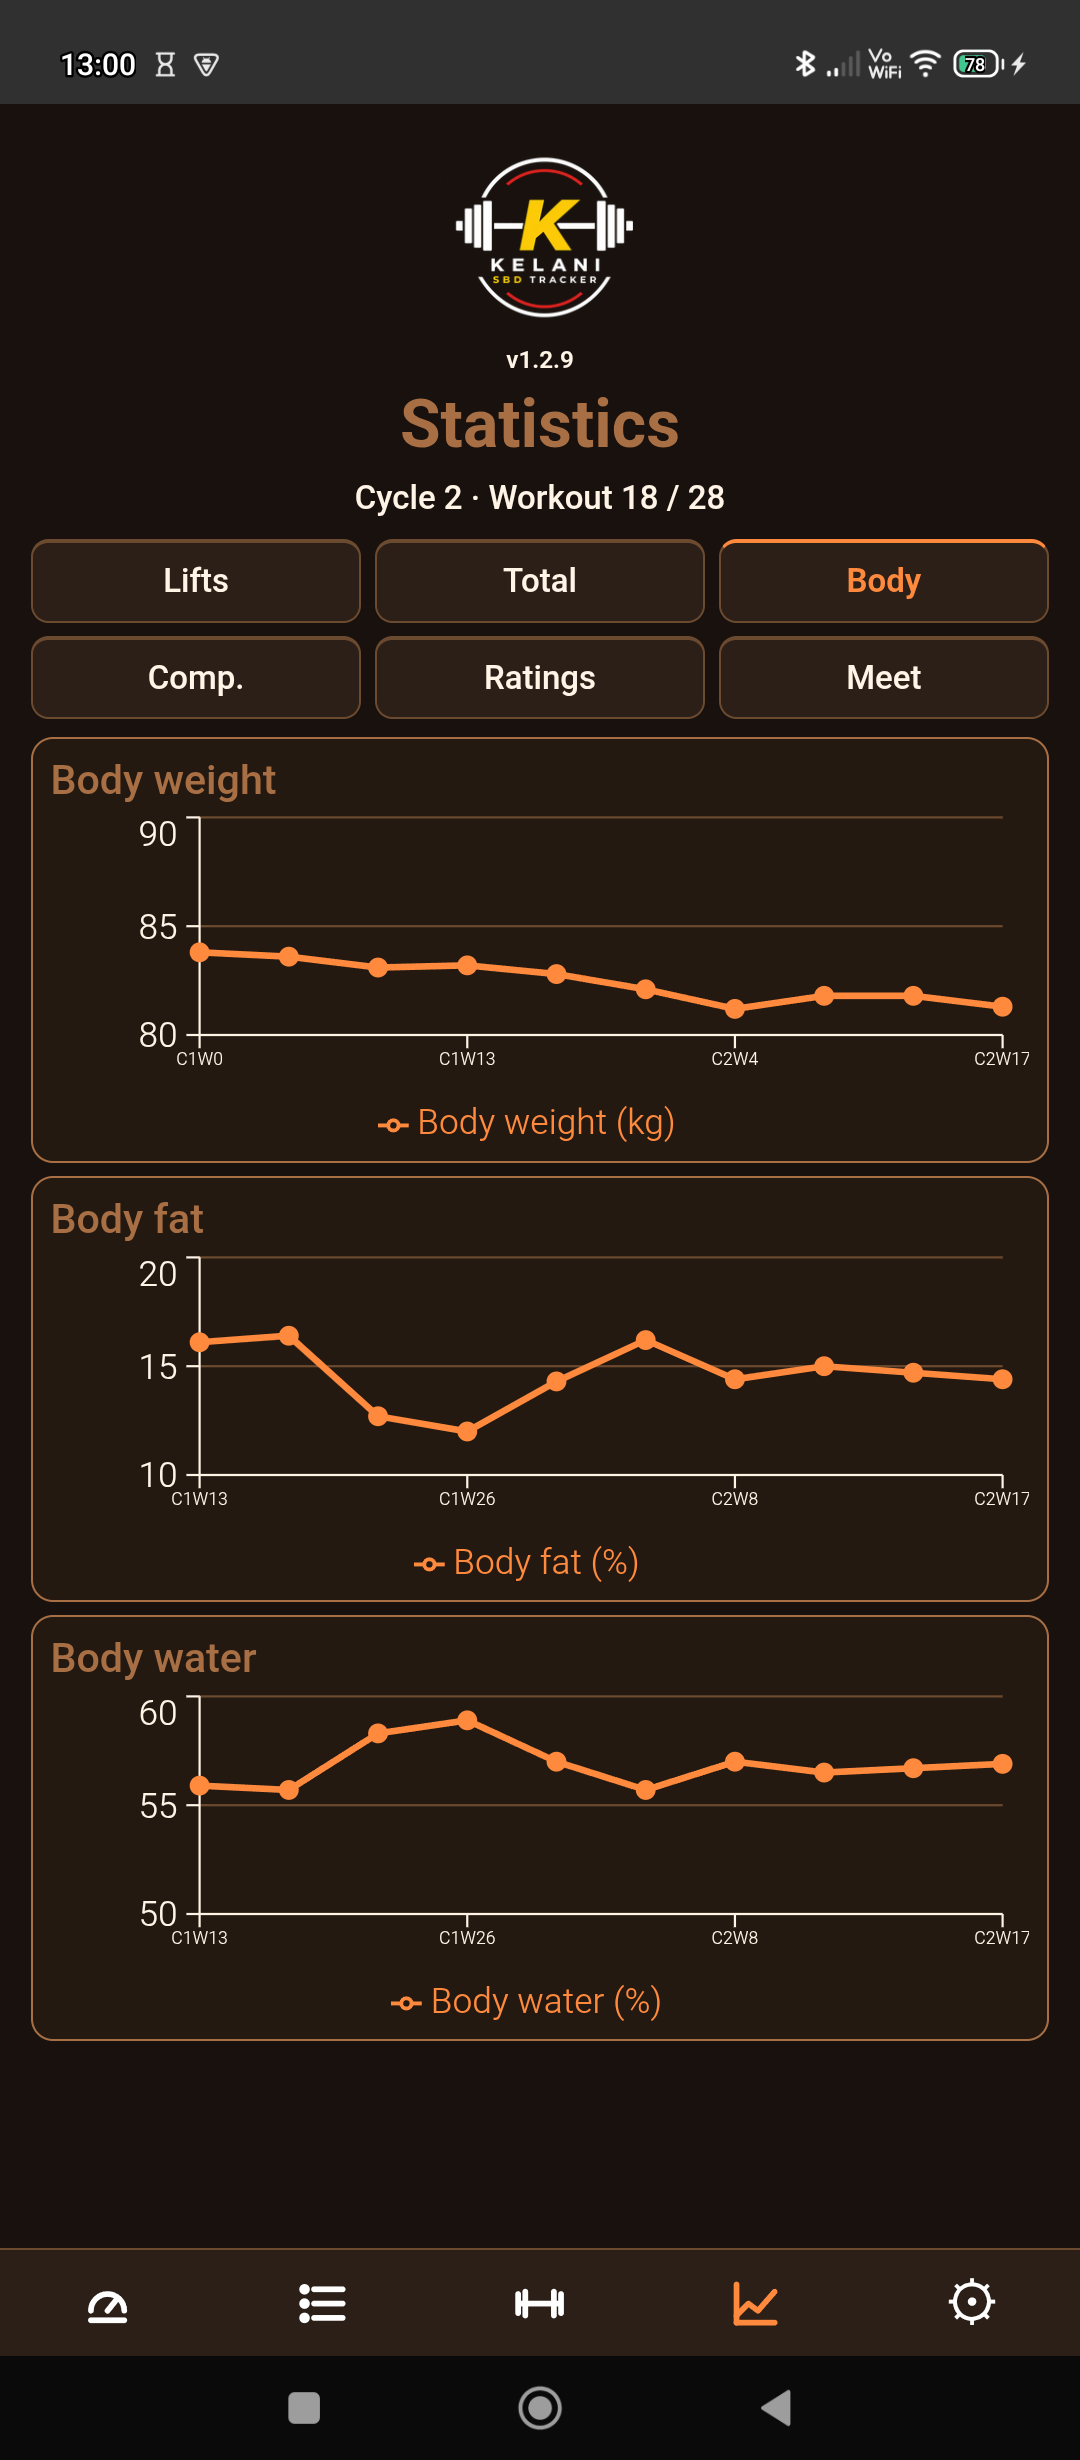
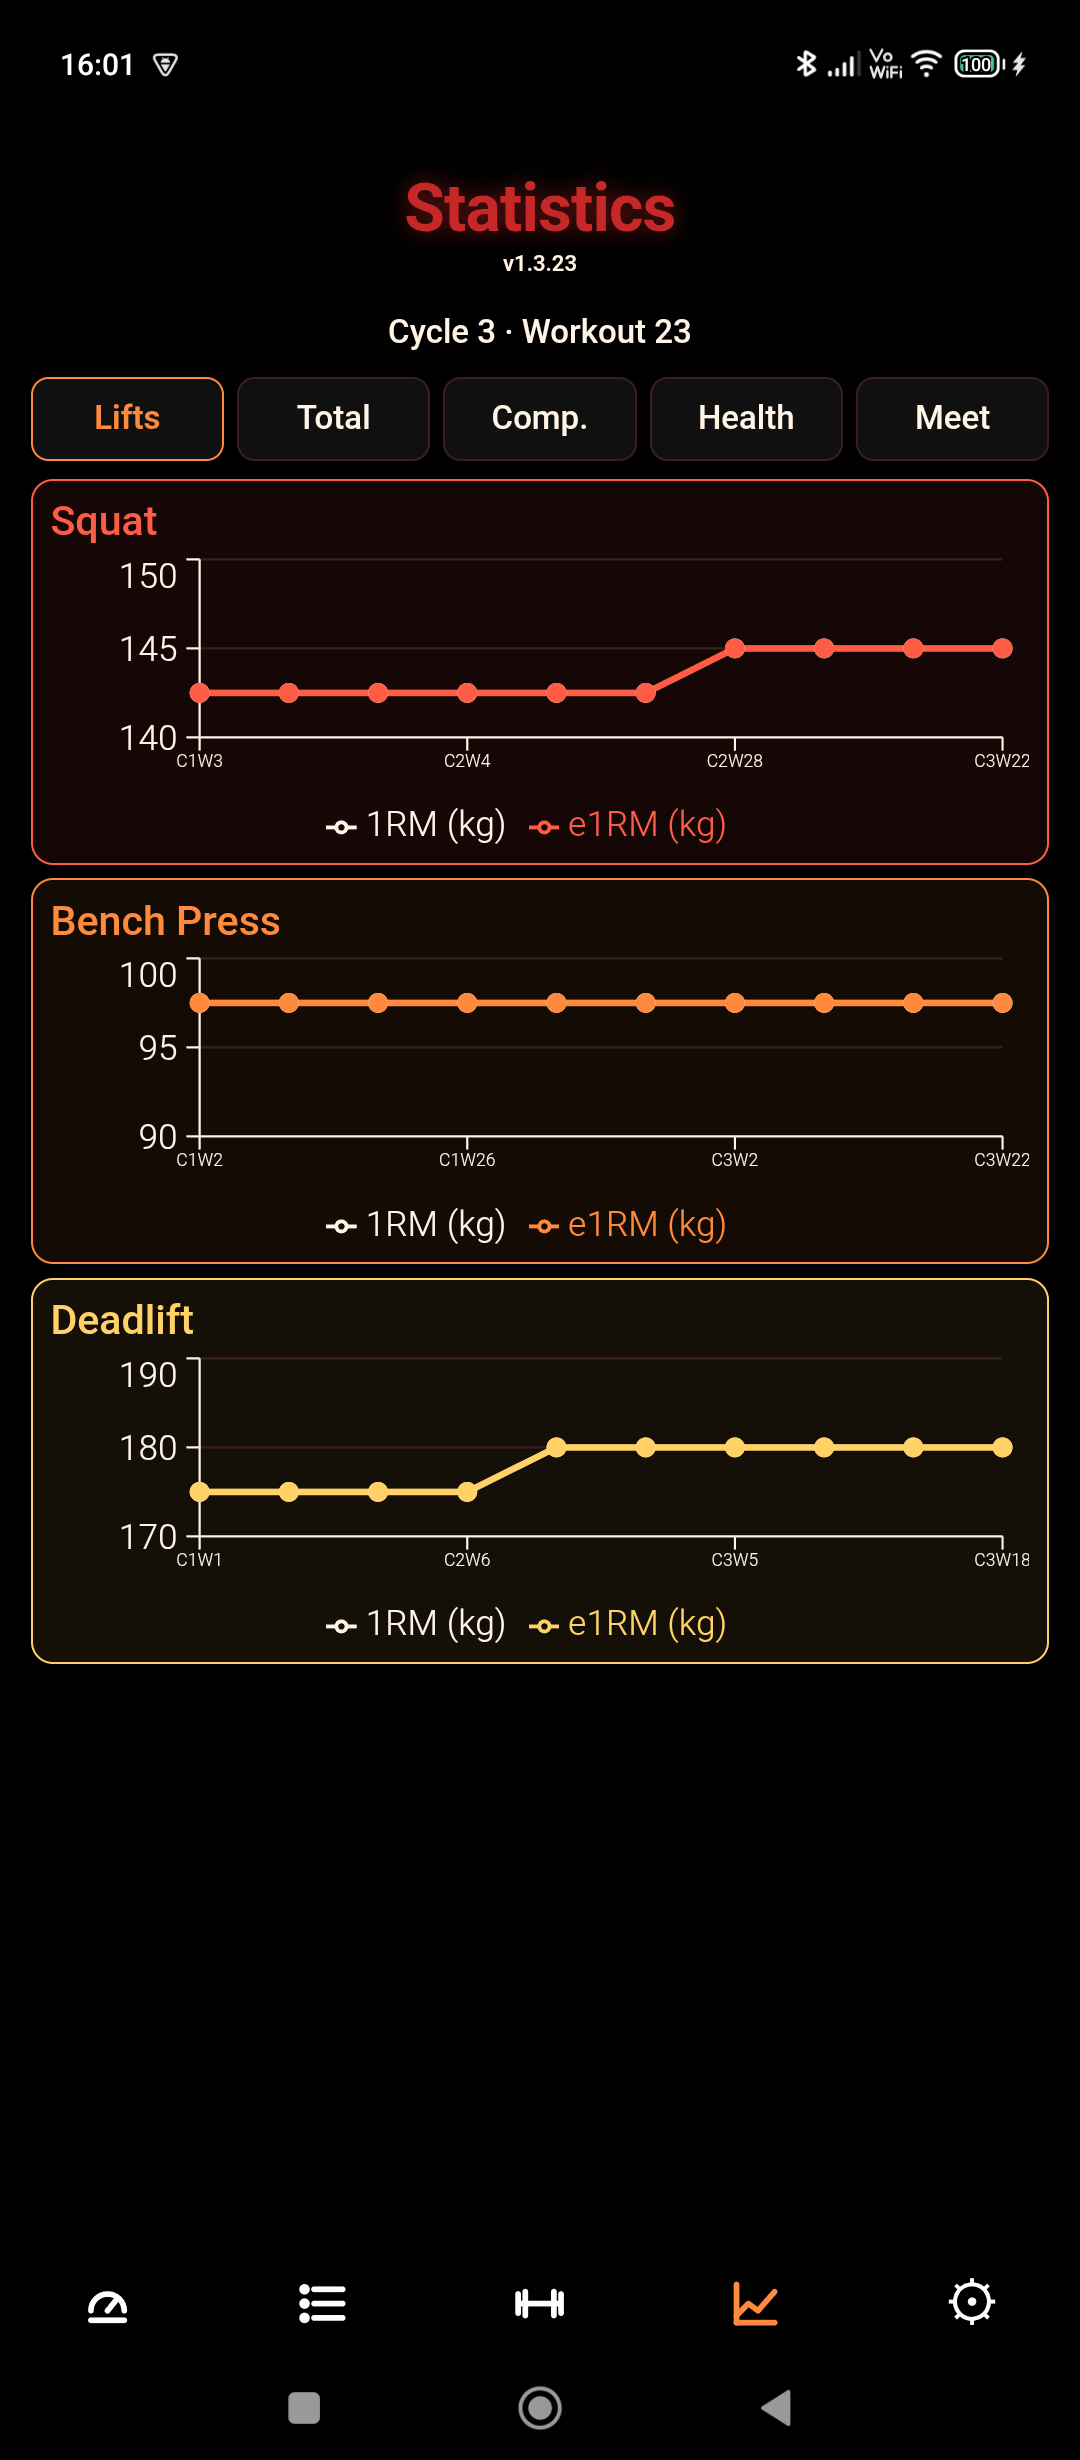
Refresh GitHub README and screenshots

diff --git a/README.md b/README.md
@@ -2,14 +2,14 @@
 
 [<img src="https://gitlab.com/IzzyOnDroid/repo/-/raw/master/assets/IzzyOnDroidButtonGreyBorder_nofont.png" height="80" alt="Get it at IzzyOnDroid">](https://apt.izzysoft.de/packages/com.kel.powerlifting)
 
-[![IzzyOnDroid](https://img.shields.io/endpoint?url=https://apt.izzysoft.de/fdroid/api/v1/shield/com.kel.powerlifting&label=IzzyOnDroid)](https://apt.izzysoft.de/packages/com.kel.powerlifting)
+[![Latest release](https://img.shields.io/github/v/release/mburgosfr-star/kelani-sbd-tracker?label=Latest%20release)](https://github.com/mburgosfr-star/kelani-sbd-tracker/releases/latest)
 
 **Kelani SBD Tracker** is a calm, offline-first powerlifting app for structured Squat, Bench Press and Deadlift training.
 
 It helps you plan, track and complete SBD workouts without accounts, ads, subscriptions, analytics or cloud lock-in. Your training data stays on your device unless you choose to export it.
 
-Website: https://mburgosfr-star.github.io/kelani-site/  
-Support Kelani: https://mburgosfr-star.github.io/kelani-site/#support
+Latest release: https://github.com/mburgosfr-star/kelani-sbd-tracker/releases/latest
+Issues and support: https://github.com/mburgosfr-star/kelani-sbd-tracker/issues
 
 ## Why Kelani?
 
@@ -26,11 +26,29 @@ Kelani is intentionally smaller and calmer. It focuses on the training flow itse
 - **Open source** — the code is public
 - **Built for practical long-term progress, not social media engagement**
 
+## Smart Training
+
+Smart Training creates the next workout from the lifter’s actual training history instead of relying on a fixed template.
+
+It can:
+
+- select primary and secondary lifts from recent training frequency and meet readiness;
+- prescribe warm-ups, top work, back-off work and accessories;
+- adapt to successful work, perceived effort, fatigue, failed sets and skipped sets;
+- track whether planned meet openers have been demonstrated;
+- avoid unnecessary repetition of recent primary-lift prescriptions;
+- preserve complete set grids on mixed-lift and single-lift training days;
+- refresh pending workouts when the prescription model changes.
+
+All Smart calculations run locally on the device.
+
 ## Features
 
 - Structured Squat, Bench Press and Deadlift training cycles
-- Workout tracking with warm-ups, main work, back-off work and optional accessories
+- Smart and manually planned training
+- Workout tracking with warm-ups, top work, back-off work and optional accessories
 - Automatic progression based on completed training
+- Lift-specific readiness and estimated 1RM tracking
 - Rest timer with audio signals
 - 1RM, estimated 1RM and strength statistics
 - Bodyweight and body composition logging
@@ -53,11 +71,13 @@ https://github.com/mburgosfr-star/kelani-sbd-tracker/releases/latest
 
 ## Screenshots
 
-![Dashboard](screenshots/dashboard.png)
+| Dashboard | Smart Training |
+|---|---|
+| ![Kelani dashboard](screenshots/dashboard.png) | ![Kelani Smart Training](screenshots/smart-training.png) |
 
-![Workout](screenshots/workout.png)
-
-![Stats](screenshots/stats.png)
+| Workout | Statistics |
+|---|---|
+| ![Kelani workout](screenshots/workout.png) | ![Kelani statistics](screenshots/stats.png) |
 
 ## Feedback and support
 
@@ -80,42 +100,28 @@ Kelani is free, offline-first and open source. There are no ads, subscriptions o
 
 If the app helps your training, you can support the project here:
 
-https://mburgosfr-star.github.io/kelani-site/#support
+https://github.com/sponsors/mburgosfr-star
 
 Support helps keep Kelani maintained, tested on real devices, improved over time, and independent.
 
 ## Build from source
 
-Requires JDK 21.
+A recent Node.js version and JDK 21 are required.
 
-```bash
-npm install
-npm run build
-npx cap sync android
-cd android
-./gradlew assembleRelease
-```
+    npm ci
+    npm run build
+    npx cap sync android
+    cd android
+    ./gradlew assembleRelease
 
-For the local signed release APK workflow used by the maintainer:
+Official APKs are built, tested and published through the guarded release process.
 
-```bash
-npm install
-npm run android:release-apk
-```
+## Project links
 
-For a clean release-style build:
+- Latest release: https://github.com/mburgosfr-star/kelani-sbd-tracker/releases/latest
+- All releases: https://github.com/mburgosfr-star/kelani-sbd-tracker/releases
+- Issues and feature requests: https://github.com/mburgosfr-star/kelani-sbd-tracker/issues
+- IzzyOnDroid: https://apt.izzysoft.de/packages/com.kel.powerlifting
+- GitHub Sponsors: https://github.com/sponsors/mburgosfr-star
 
-```bash
-npm install
-npm run build
-npx cap sync android
-cd android
-./gradlew clean assembleRelease --no-build-cache --no-configuration-cache --no-daemon
-```
-
-## Maintainer
-
-Maintained by Kel.
-
-- GitHub: https://github.com/mburgosfr-star
-- Website: https://mburgosfr-star.github.io/kelani-site/
+Maintained by [Kel](https://github.com/mburgosfr-star).